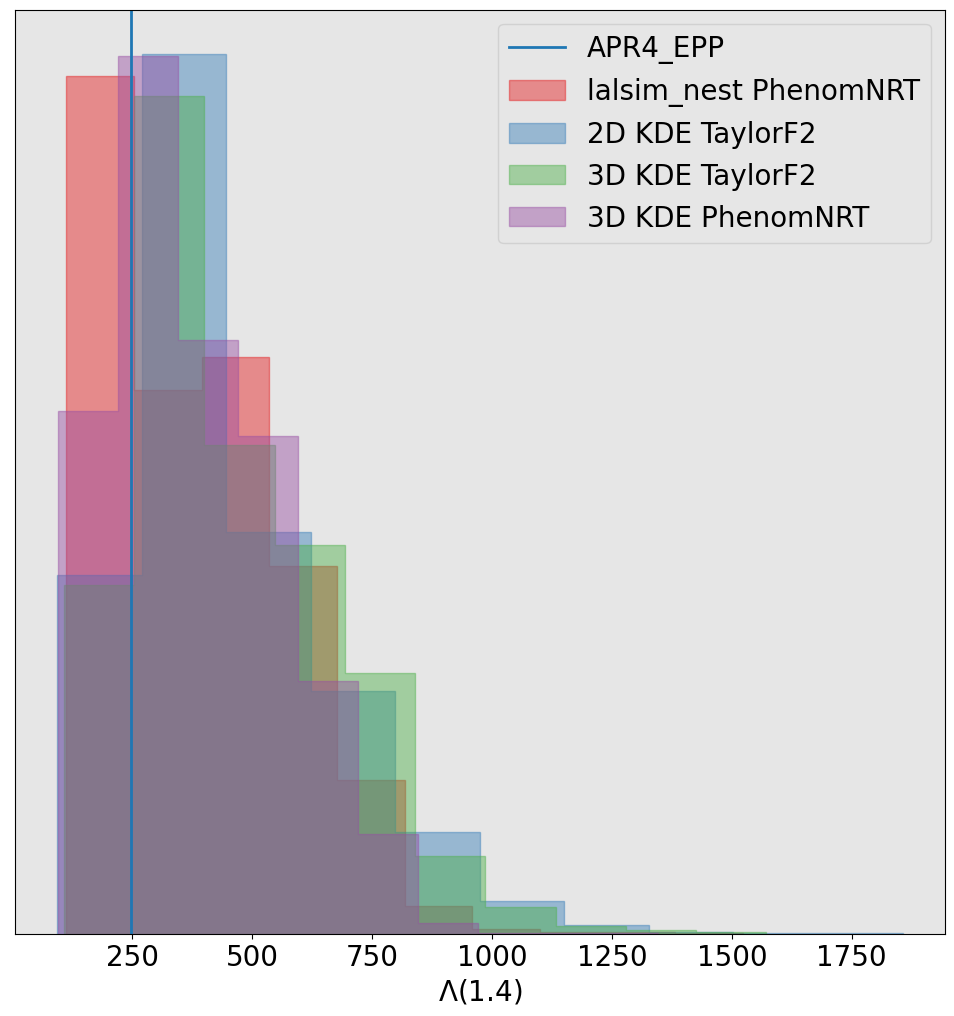
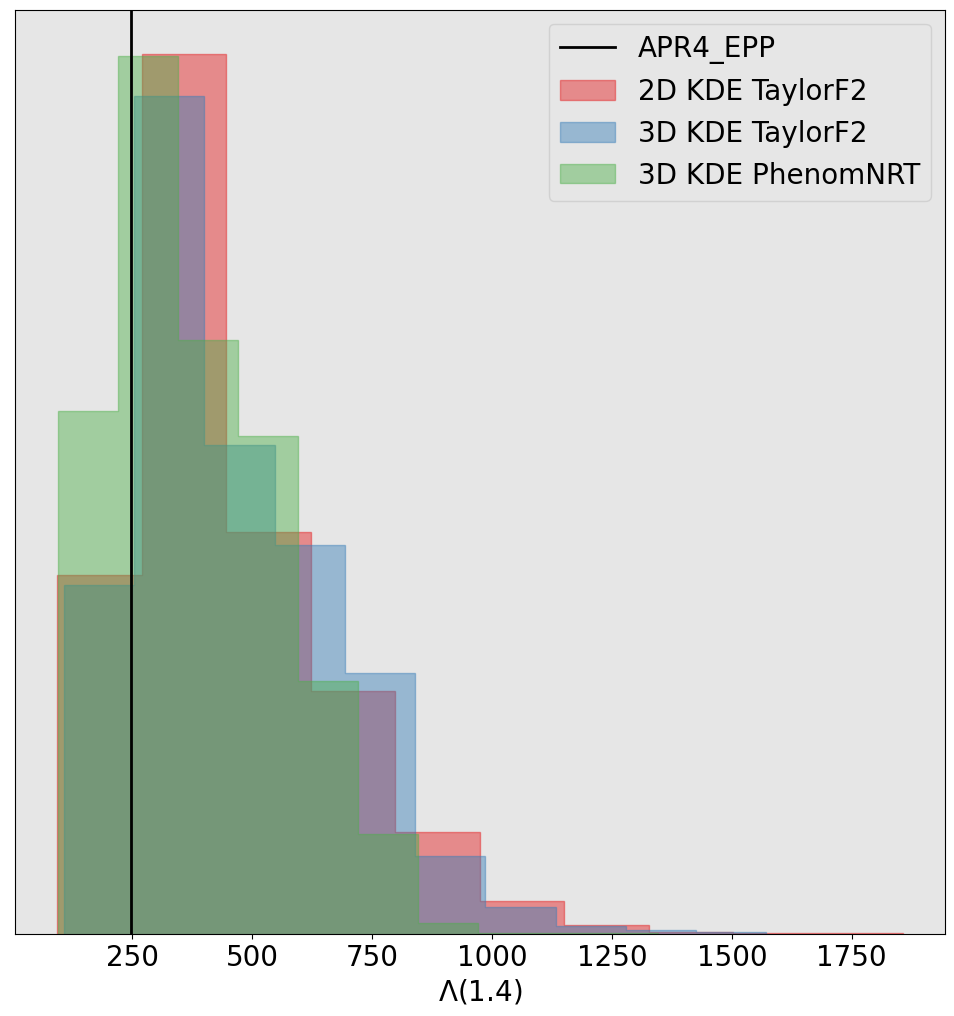
Redid the histograms for GW170817 and the stacked simulations.

Changed region(s): [[0.0608, 0.0305, 0.7296, 0.9459], [0.5168, 0.0305, 0.9727, 0.2441]]

diff --git a/year3/lastStretch/lambdaHist.py b/year3/lastStretch/lambdaHist.py
@@ -3,8 +3,8 @@ import lal
 import lalsimulation as lalsim
 import matplotlib.pyplot as plt
 
-labels = ["lalsim_nest-PhenomNRT", "2D-KDE-TaylorF2", "3D-KDE-TaylorF2", "3D-KDE-PhenomNRT"]
-#labels = ["2D-KDE-TaylorF2", "3D-KDE-TaylorF2", "3D-KDE-PhenomNRT"]
+#labels = ["lalsim_nest-PhenomNRT", "2D-KDE-TaylorF2", "3D-KDE-TaylorF2", "3D-KDE-PhenomNRT"]
+labels = ["2D-KDE-TaylorF2", "3D-KDE-TaylorF2", "3D-KDE-PhenomNRT"]
 #labels = ["lalsim_nest-PhenomNRT"]
 
 def calcLambda_parametrized():
@@ -52,20 +52,20 @@ def plotLambda_parametrized(eosname="APR4_EPP"):
     plt.rc('xtick', direction='out', color='black')
     plt.rc('ytick', direction='out', color='black')
     plt.rc('lines', linewidth=2)
-    Labels = ["lalsim_nest PhenomNRT", "2D KDE TaylorF2", "3D KDE TaylorF2", "3D KDE PhenomNRT"]
+    #Labels = ["lalsim_nest PhenomNRT", "2D KDE TaylorF2", "3D KDE TaylorF2", "3D KDE PhenomNRT"]
+    Labels = ["2D KDE TaylorF2", "3D KDE TaylorF2", "3D KDE PhenomNRT"]
     for ii in range(len(Labels)):
 
-        #filename='data/lambdaHists/{}_16simulationsInference_Lambdas.txt'.format(labels[ii])
-        filename='data/lambdaHists/{}_GW170817inference_Lambdas.txt'.format(labels[ii])
+        filename='data/lambdaHists/{}_16simulationsInference_Lambdas.txt'.format(labels[ii])
+        #filename='data/lambdaHists/{}_GW170817inference_Lambdas.txt'.format(labels[ii])
         Lambdas = np.loadtxt(filename).T
-
         plt.hist(Lambdas, label=Labels[ii], alpha=0.45, fill=True, density=True, color=Colors[ii], histtype='step')
 
-    plt.axvline(x=eosLambda, label=eosname)
+    plt.axvline(x=eosLambda, label=eosname, color="black")
 
     plt.xlabel("$\Lambda$(1.4)",fontsize=20)
     plt.yticks([])
     plt.legend()
-    #plt.savefig("plots/lambdaHists/16simulations_Lambdas.png", bbox_inches='tight')
-    plt.savefig("plots/lambdaHists/GW170817_Lambdas.png", bbox_inches='tight')
+    plt.savefig("plots/lambdaHists/16simulations_Lambdas.png", bbox_inches='tight')
+    #plt.savefig("plots/lambdaHists/GW170817_Lambdas.png", bbox_inches='tight')
 
